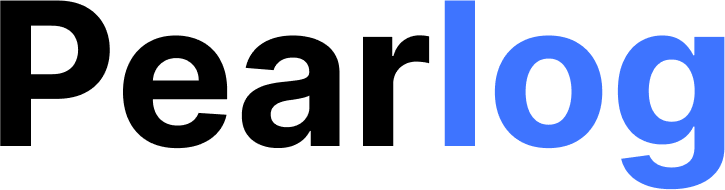
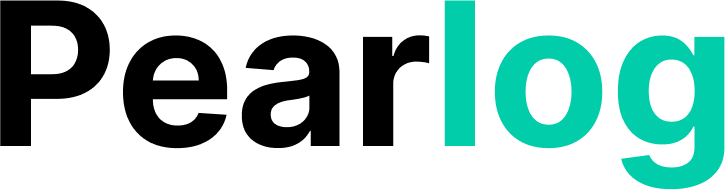
Fix: Primary color 변경
* Primary color 변경

Changed region(s): [[0.6069, 0.0, 1.0, 1.0]]

diff --git a/src/style.css b/src/style.css
@@ -45,7 +45,7 @@
   --fontSize-5: 2.074rem;
   --fontSize-6: 2.488rem;
   --fontSize-7: 2.986rem;
-  --color-primary: #3e74ff;
+  --color-primary: #01cdaa;
   --color-secondary: #00d2ff;
   --color-text: #2e353f;
   --color-text-light: #4f5969;
@@ -219,7 +219,7 @@ a {
 a:hover,
 a:focus {
   text-decoration: underline;
-  color: var(--color-secondary);
+  color: var(--color-heading);
 }
 
 /* Custom classes */

diff --git a/README.md b/README.md
@@ -20,4 +20,5 @@ OTHER TORTIOUS ACTION, ARISING OUT OF OR IN CONNECTION WITH THE USE OR
 PERFORMANCE OF THIS SOFTWARE.
 
 ## References
-* [gatsby-starter-blog](https://www.gatsbyjs.com/starters/gatsbyjs/gatsby-starter-blog)
+
+- [gatsby-starter-blog](https://www.gatsbyjs.com/starters/gatsbyjs/gatsby-starter-blog)
